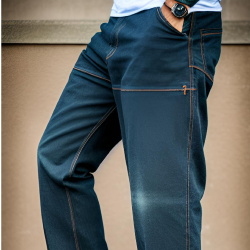
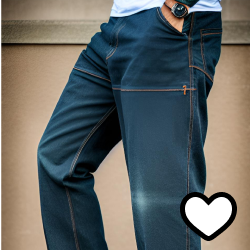
made the mens page
i made the mens page and also changed ALL OF THE IMAGES TO ADD THAT STUPID FUCKING HEART TO THE BOTTOM RIGHT

Changed region(s): [[0.7, 0.756, 0.952, 0.98]]

diff --git a/mannen/mannen.html b/mannen/mannen.html
@@ -4,8 +4,8 @@
 <head>
     <meta charset="UTF-8">
     <meta name="viewport" content="width=device-width, initial-scale=1.0">
-    <title>Vrouwen</title>
-    <link rel="stylesheet" href="vrouwen.css">
+    <title>Mannen</title>
+    <link rel="stylesheet" href="mannen.css">
     <link rel="preconnect" href="https://fonts.googleapis.com">
     <link rel="preconnect" href="https://fonts.gstatic.com" crossorigin>
     <link
@@ -76,21 +76,21 @@
     </nav>
 
     <div class="content">
-        <img src="../images/vrouwen/imageWomen1.png" alt="">
-        <img src="../images/vrouwen/imageWomen2.png" alt="">
-        <img src="../images/vrouwen/imageWomen3.png" alt="">
-        <img src="../images/vrouwen/imageWomen4.png" alt="">
-        <img src="../images/vrouwen/imageWomen5.png" alt="">
-        <img src="../images/vrouwen/imageWomen6.png" alt="">
-        <img src="../images/vrouwen/imageWomen7.png" alt="">
-        <img src="../images/vrouwen/imageWomen8.png" alt="">
-        <img src="../images/vrouwen/imageWomen9.png" alt="">
-        <img src="../images/vrouwen/imageWomen10.png" alt="">
-        <img src="../images/vrouwen/imageWomen1.png" alt="">
-        <img src="../images/vrouwen/imageWomen2.png" alt="">
-        <img src="../images/vrouwen/imageWomen3.png" alt="">
-        <img src="../images/vrouwen/imageWomen4.png" alt="">
-        <img src="../images/vrouwen/imageWomen5.png" alt="">
+        <img src="../images/mannen/imageMen1.png" alt="">
+        <img src="../images/mannen/imageMen2.png" alt="">
+        <img src="../images/mannen/imageMen3.png" alt="">
+        <img src="../images/mannen/imageMen4.png" alt="">
+        <img src="../images/mannen/imageMen5.png" alt="">
+        <img src="../images/mannen/imageMen6.png" alt="">
+        <img src="../images/mannen/imageMen7.png" alt="">
+        <img src="../images/mannen/imageMen8.png" alt="">
+        <img src="../images/mannen/imageMen9.png" alt="">
+        <img src="../images/mannen/imageMen10.png" alt="">
+        <img src="../images/mannen/imageMen1.png" alt="">
+        <img src="../images/mannen/imageMen2.png" alt="">
+        <img src="../images/mannen/imageMen3.png" alt="">
+        <img src="../images/mannen/imageMen4.png" alt="">
+        <img src="../images/mannen/imageMen5.png" alt="">
     </div>
 
 </body>

diff --git a/index/index.html b/index/index.html
@@ -68,7 +68,7 @@
     <nav>
         <ul>
             <li><a href="../vrouwen/vrouwen.html">Vrouw</a></li>
-            <li>Man</li>
+            <li><a href="../mannen/mannen.html">Man</a></li>
             <li>Shoenen</li>
             <li>DIY</li>
             <li>About</li>
